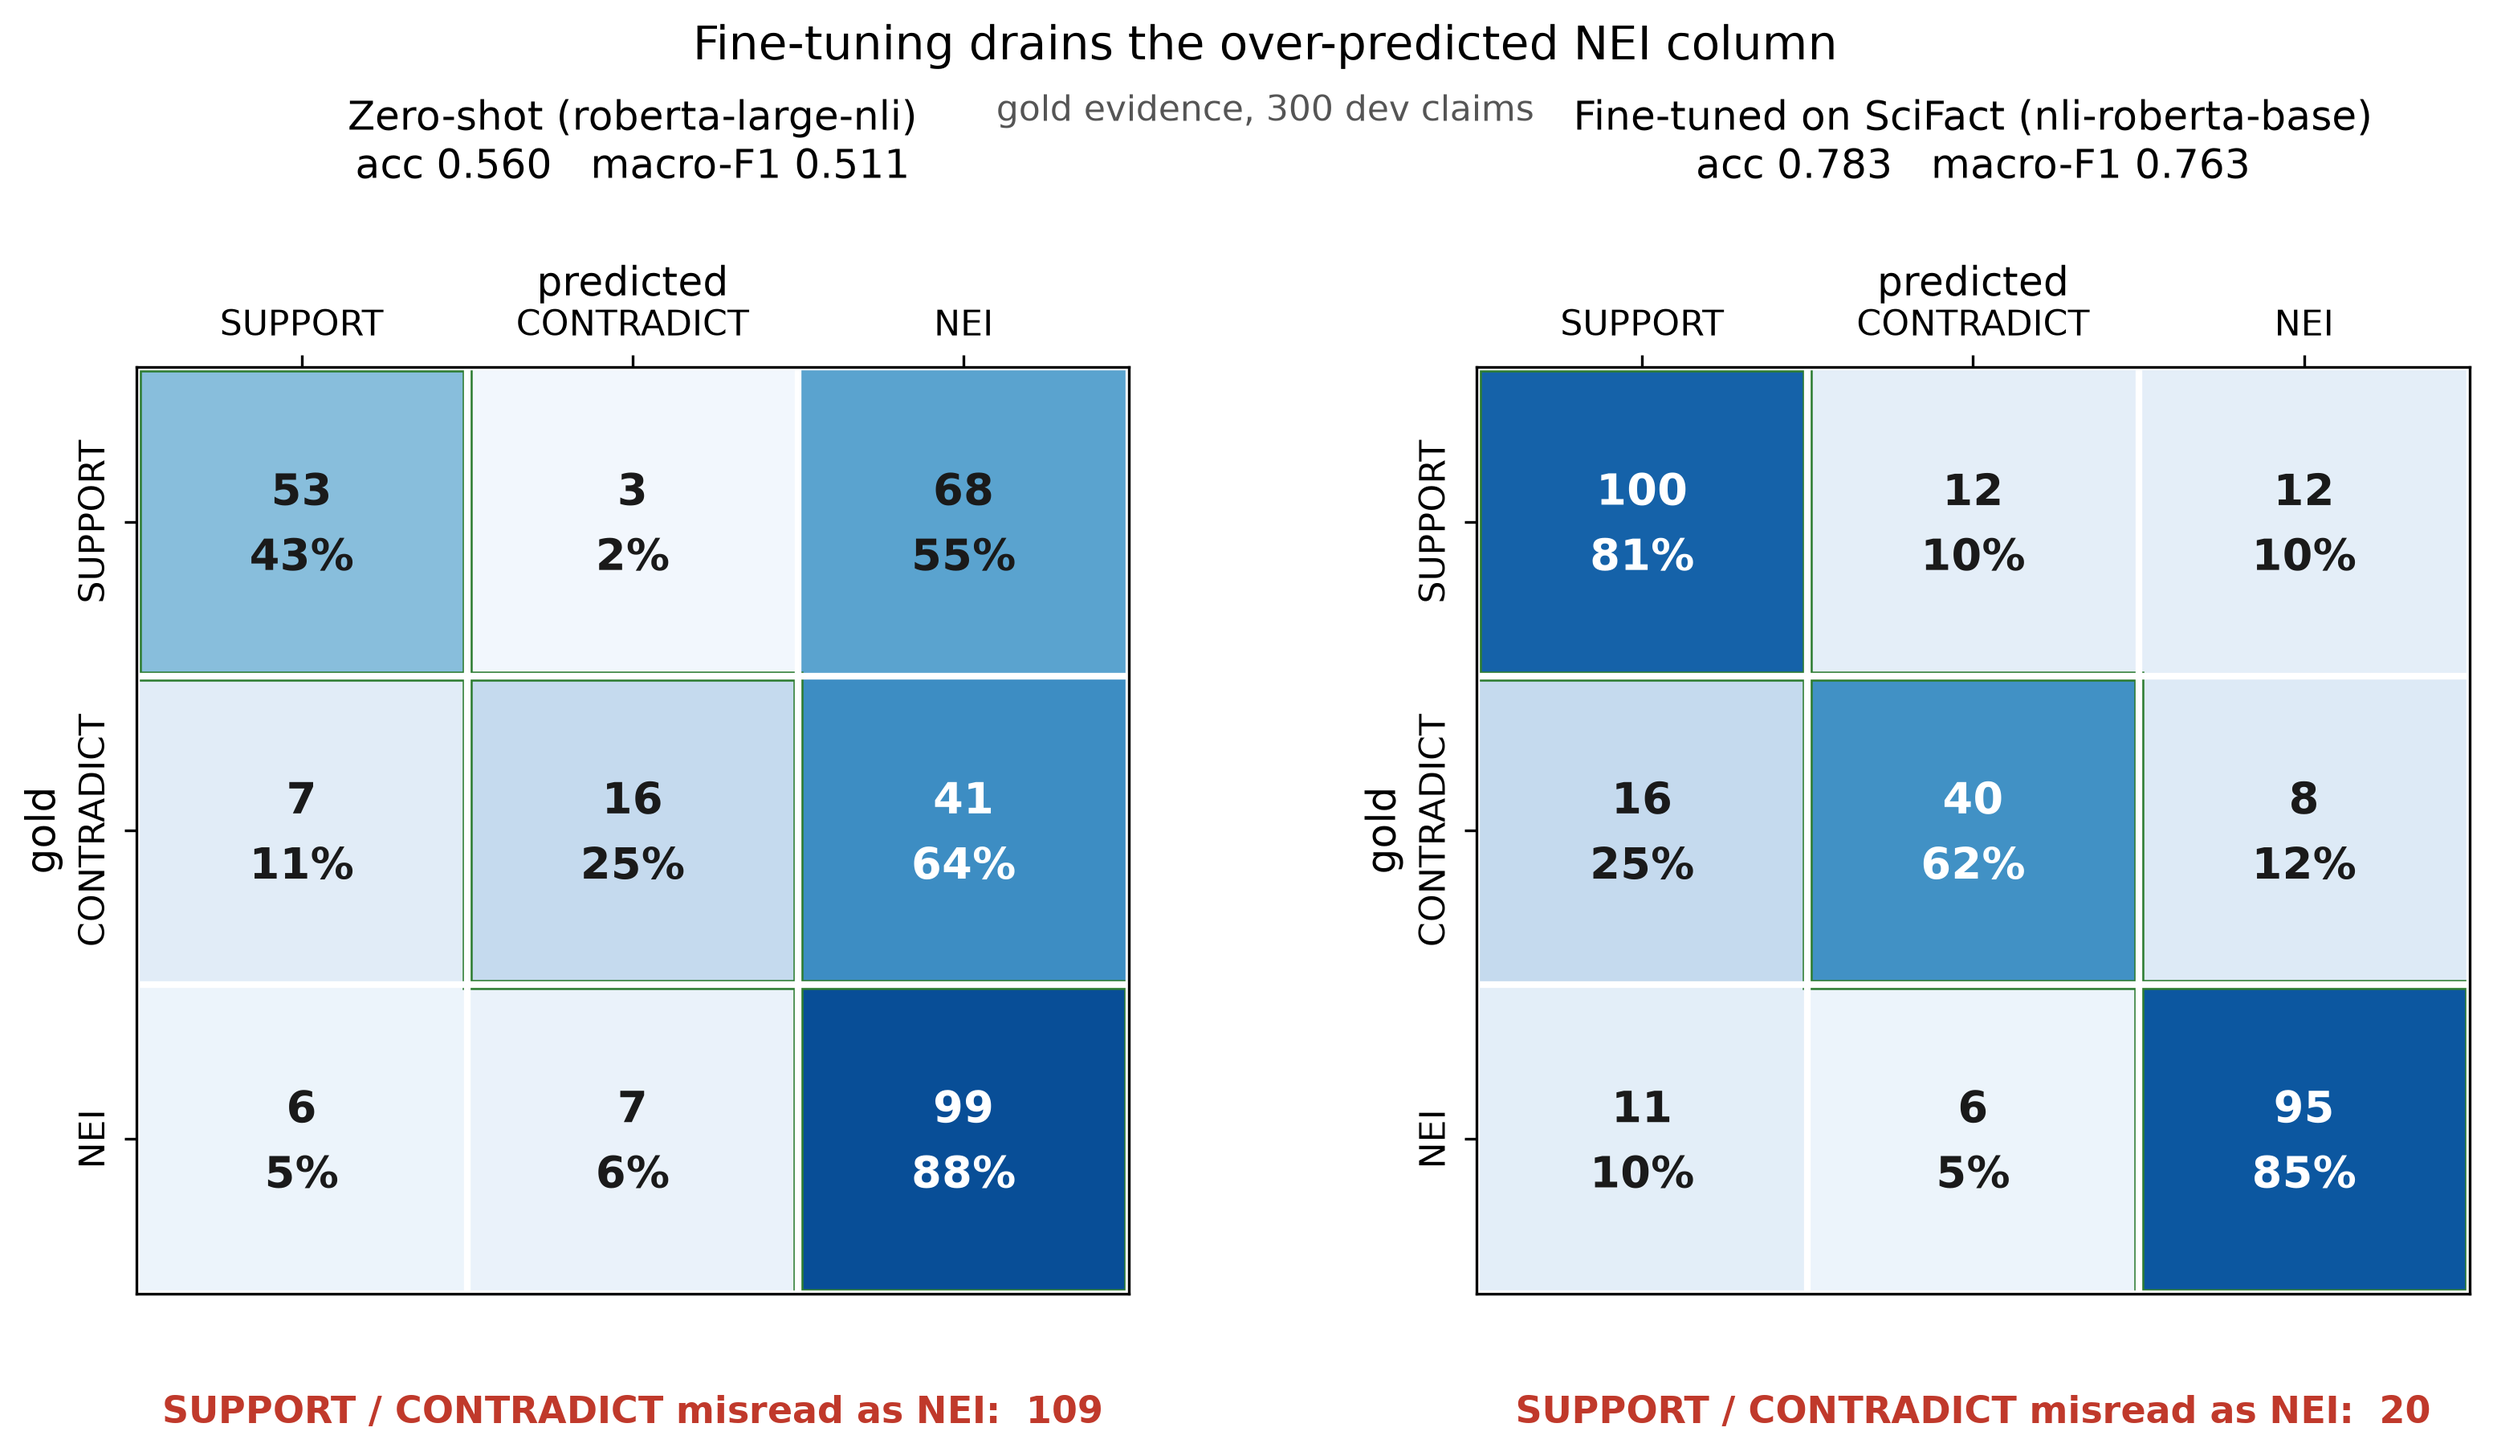
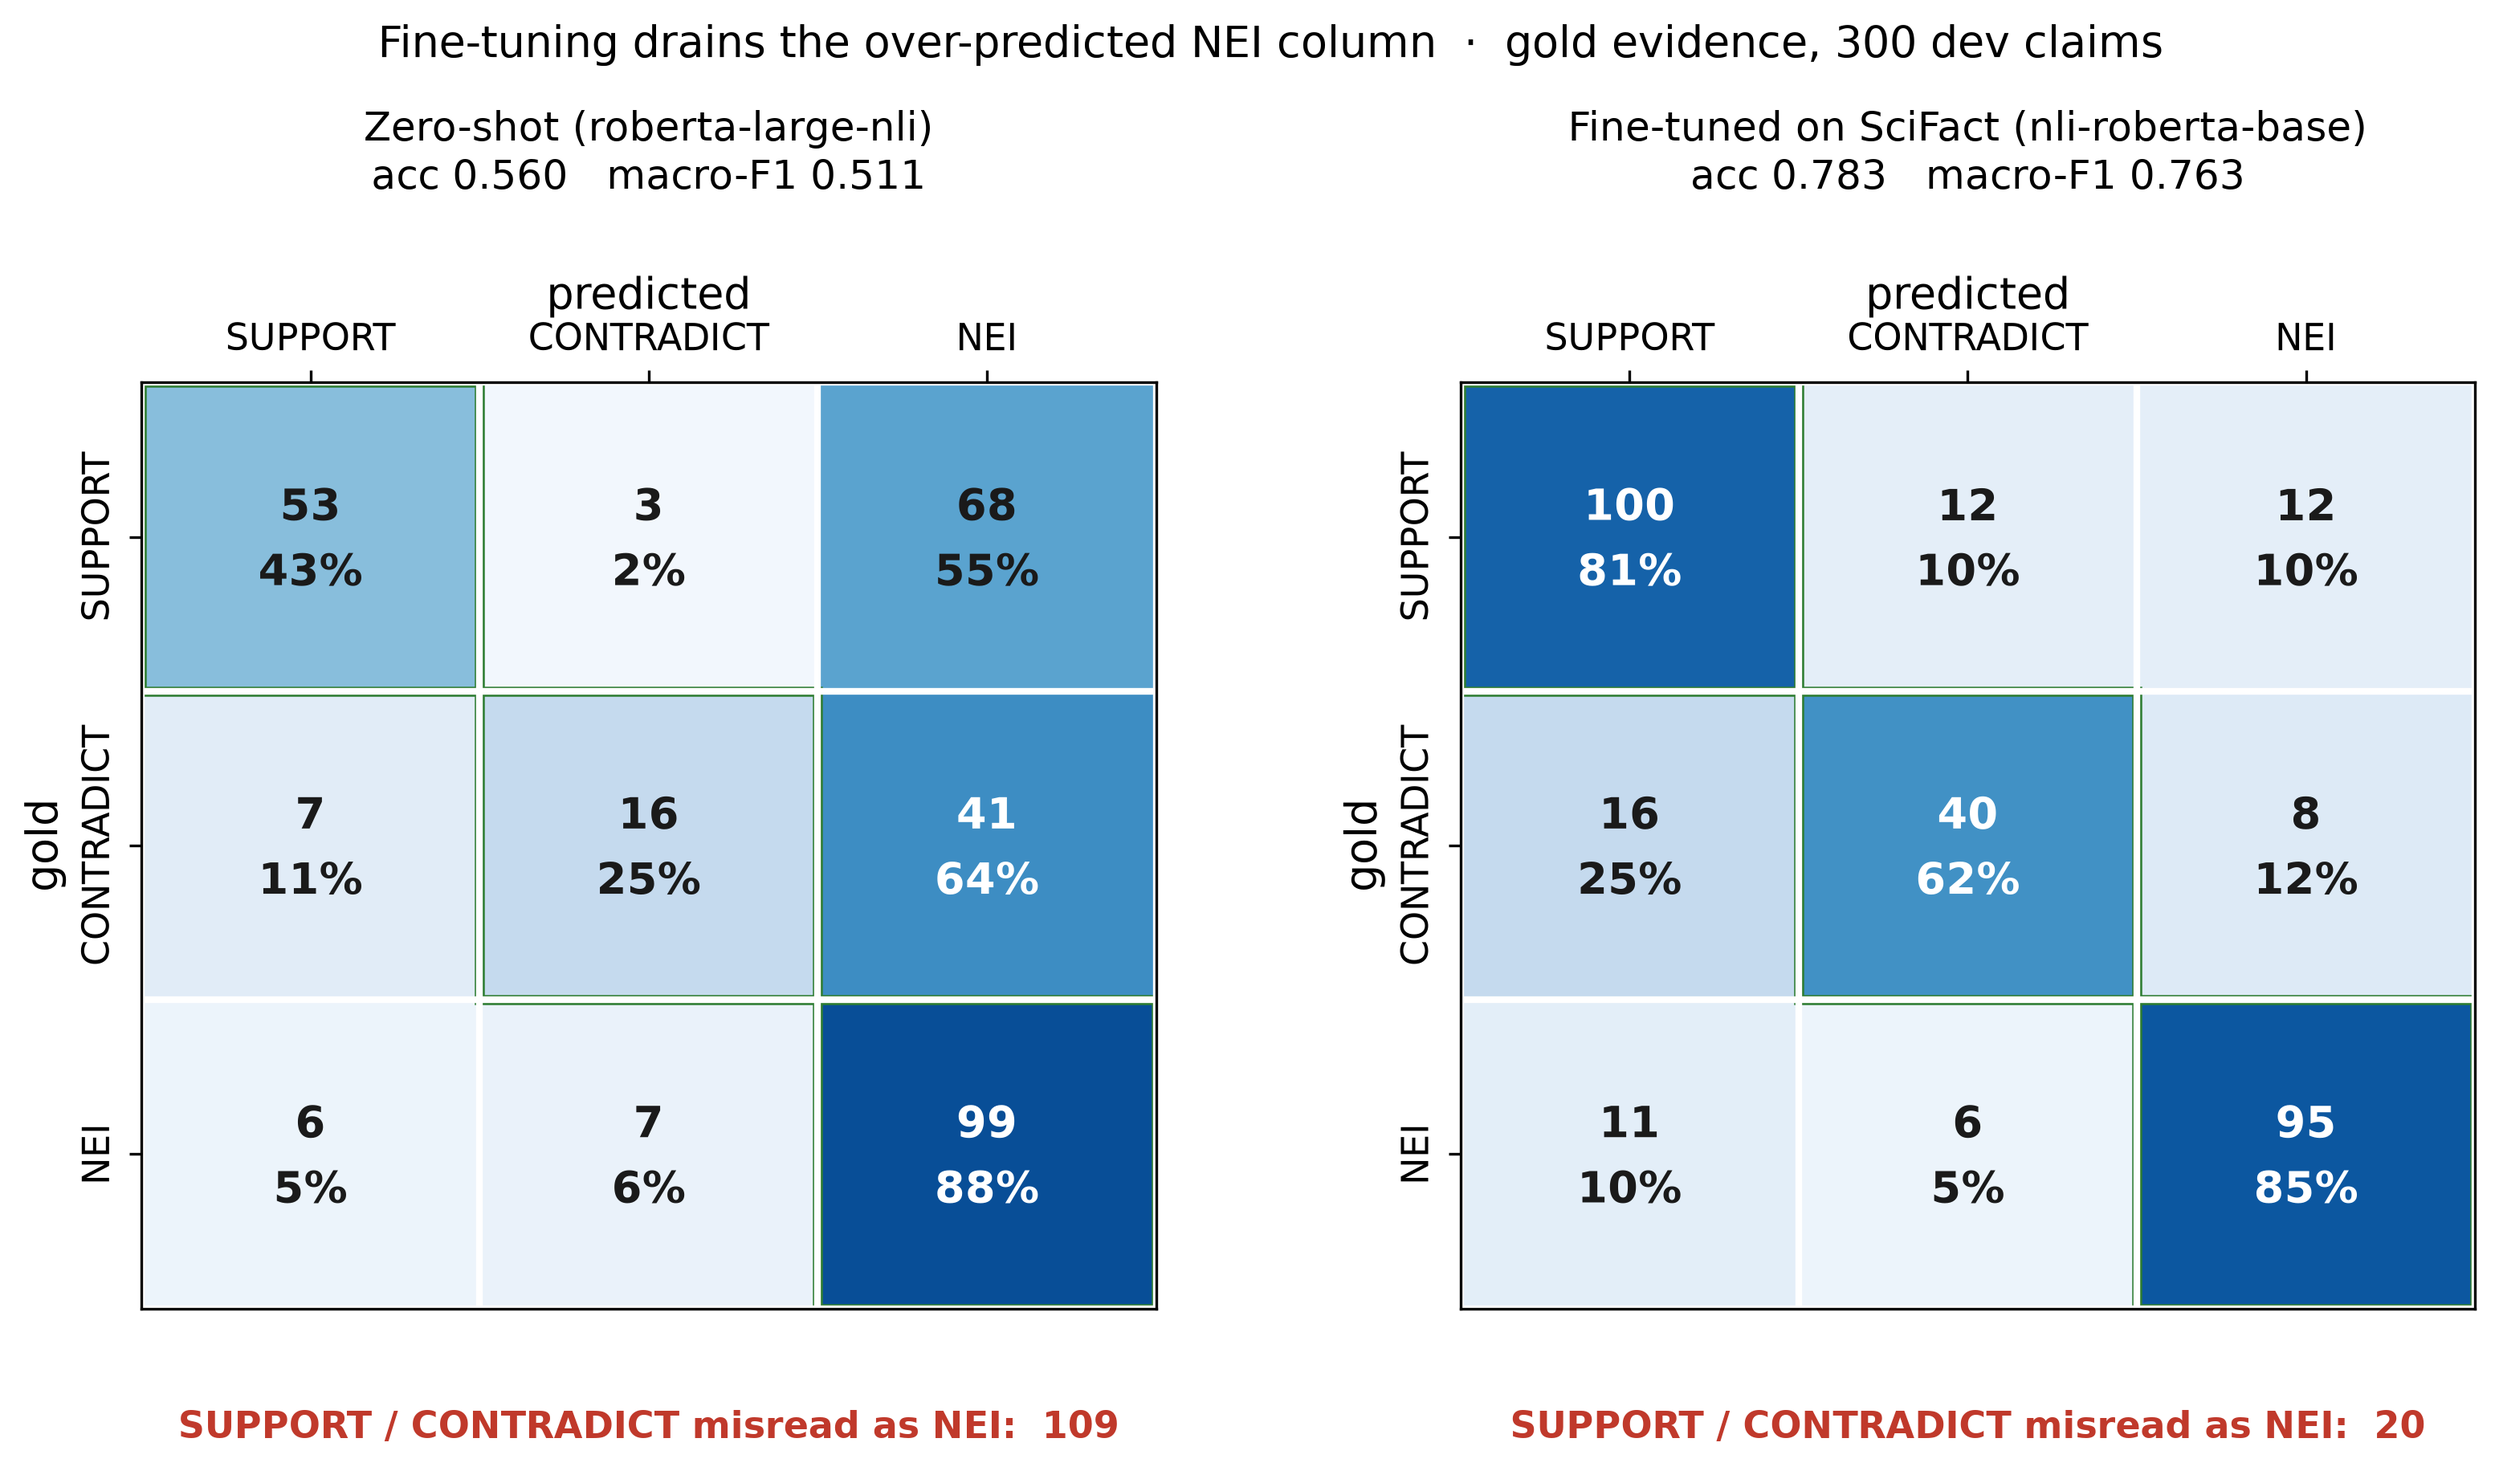
restyle NLI/Arctic plots to match the existing figures

diff --git a/make_plots.py b/make_plots.py
@@ -22,6 +22,7 @@ OUTPUT_DIR.mkdir(parents=True, exist_ok=True)
 
 COLOR_DEFAULT = "#4878A6"
 COLOR_HIGHLIGHT = "#2E7D32"
+COLOR_WARNING = "#C0392B"
 
 def plot_main_comparison():
     sorted_methods = sorted(RESULTS.items(), key=lambda x: x[1]["ndcg"], reverse=True)
@@ -210,8 +211,6 @@ def plot_reranking_effect():
         "BGE-FT":    {"without": 0.830, "with": 0.798},
     }
 
-    COLOR_WARNING = "#C0392B"  # negative BGE-FT slope
-
     fig, ax = plt.subplots(figsize=(11, 6.5))
     x_positions = [0, 1]
     x_labels = ["without\nReranker", "with mxbai\nReranker"]
@@ -272,7 +271,7 @@ def plot_nli_confusion_matrices():
     ])
 
     fig, axes = plt.subplots(1, 2, figsize=(12.5, 6.2))
-    fig.subplots_adjust(wspace=0.35, top=0.74, bottom=0.12)
+    fig.subplots_adjust(wspace=0.30, top=0.74, bottom=0.12)
     panels = [
         (axes[0], zero_shot,
          "Zero-shot (roberta-large-nli)\nacc 0.560   macro-F1 0.511"),
@@ -299,26 +298,24 @@ def plot_nli_confusion_matrices():
                                        edgecolor=COLOR_HIGHLIGHT, linewidth=3))
 
         wrong_to_nei = int(matrix[0, 2] + matrix[1, 2])
-        ax.set_xticks(range(3), labels, fontsize=10.5)
-        ax.set_yticks(range(3), labels, fontsize=10.5, rotation=90, va="center")
+        ax.set_xticks(range(3), labels, fontsize=11)
+        ax.set_yticks(range(3), labels, fontsize=11, rotation=90, va="center")
         ax.xaxis.set_ticks_position("top")
-        ax.set_xlabel("predicted", fontsize=12)
+        ax.set_xlabel("predicted", fontsize=13)
         ax.xaxis.set_label_position("top")
-        ax.set_ylabel("gold", fontsize=12)
+        ax.set_ylabel("gold", fontsize=13)
         ax.set_title(title, fontsize=12, pad=26)
         ax.text(0.5, -0.14,
                 f"SUPPORT / CONTRADICT misread as NEI:  {wrong_to_nei}",
                 transform=ax.transAxes, ha="center", fontsize=11,
-                color="#C0392B", fontweight="bold")
+                color=COLOR_WARNING, fontweight="bold")
         ax.set_xticks(np.arange(-0.5, 3), minor=True)
         ax.set_yticks(np.arange(-0.5, 3), minor=True)
         ax.grid(which="minor", color="white", linewidth=2)
         ax.tick_params(which="minor", length=0)
 
-    fig.suptitle("Fine-tuning drains the over-predicted NEI column",
-                 fontsize=14, y=0.97)
-    fig.text(0.5, 0.905, "gold evidence, 300 dev claims", ha="center",
-             fontsize=10.5, color="#555555")
+    fig.suptitle("Fine-tuning drains the over-predicted NEI column  ·  gold evidence, 300 dev claims",
+                 fontsize=13, y=0.98)
     out = OUTPUT_DIR / "05_nli_confusion_matrices.png"
     plt.savefig(out, dpi=300, bbox_inches="tight")
     plt.close()
@@ -332,51 +329,49 @@ def plot_nli_metrics_comparison():
     Nuance: the gold-minus-retrieved gap *widens* after fine-tuning. Once the
     classifier is strong, retrieval mistakes become the visible bottleneck.
     """
-    # (retrieved evidence, gold evidence)  -- results/eval_nli*.log
-    data = {
-        "Accuracy": {"Zero-shot": (0.543, 0.560), "Fine-tuned": (0.710, 0.783)},
-        "Macro-F1": {"Zero-shot": (0.489, 0.511), "Fine-tuned": (0.697, 0.763)},
-    }
+    # (label, retrieved evidence, gold evidence)  -- results/eval_nli*.log
+    rows = [
+        ("Accuracy\nzero-shot",  0.543, 0.560),
+        ("Accuracy\nfine-tuned", 0.710, 0.783),
+        ("Macro-F1\nzero-shot",  0.489, 0.511),
+        ("Macro-F1\nfine-tuned", 0.697, 0.763),
+    ]
+    labels    = [r[0] for r in rows]
+    retrieved = [r[1] for r in rows]
+    gold      = [r[2] for r in rows]
 
-    fig, axes = plt.subplots(1, 2, figsize=(13, 6), sharey=True)
-    bar_w = 0.34
+    x = np.arange(len(rows))
+    bar_w = 0.38
 
-    for ax, (metric, groups) in zip(axes, data.items()):
-        names = list(groups)
-        x = np.arange(len(names))
-        retrieved = [groups[n][0] for n in names]
-        gold = [groups[n][1] for n in names]
+    fig, ax = plt.subplots(figsize=(12, 6.75))
+    b1 = ax.bar(x - bar_w / 2, retrieved, bar_w, color=COLOR_DEFAULT,
+                edgecolor="white", linewidth=0.5, label="retrieved (BGE-FT top-1)")
+    b2 = ax.bar(x + bar_w / 2, gold, bar_w, color=COLOR_HIGHLIGHT,
+                edgecolor="white", linewidth=0.5, label="gold evidence")
 
-        b1 = ax.bar(x - bar_w / 2, retrieved, bar_w, color=COLOR_DEFAULT,
-                    hatch="///", edgecolor="white", label="retrieved (BGE-FT top-1)")
-        b2 = ax.bar(x + bar_w / 2, gold, bar_w, color=COLOR_HIGHLIGHT,
-                    edgecolor="white", label="gold evidence")
+    for bars in (b1, b2):
+        for bar in bars:
+            ax.text(bar.get_x() + bar.get_width() / 2, bar.get_height() + 0.012,
+                    f"{bar.get_height():.3f}", ha="center", fontsize=11)
 
-        for bars in (b1, b2):
-            for bar in bars:
-                ax.text(bar.get_x() + bar.get_width() / 2, bar.get_height() + 0.012,
-                        f"{bar.get_height():.3f}", ha="center", fontsize=10)
+    for xi, (_, r, g) in enumerate(rows):
+        top = max(r, g) + 0.07
+        ax.annotate("", xy=(xi + bar_w / 2, top), xytext=(xi - bar_w / 2, top),
+                    arrowprops=dict(arrowstyle="<->", color="gray", lw=1.2))
+        ax.text(xi, top + 0.02, f"Δ +{g - r:.3f}", ha="center", fontsize=10,
+                color="gray", fontweight="bold")
 
-        for xi, n in enumerate(names):
-            gap = groups[n][1] - groups[n][0]
-            top = max(groups[n]) + 0.075
-            ax.annotate("", xy=(xi + bar_w / 2, top), xytext=(xi - bar_w / 2, top),
-                        arrowprops=dict(arrowstyle="<->", color="gray", lw=1.3))
-            ax.text(xi, top + 0.018, f"Δ +{gap:.3f}", ha="center", fontsize=10,
-                    color="gray", fontweight="bold")
+    ax.set_xticks(x, labels, fontsize=11)
+    ax.set_ylabel("score on the 300 dev claims", fontsize=13)
+    ax.set_ylim(0, 0.95)
+    ax.set_title("NLI verdict: fine-tuning lifts every metric — and widens the retrieval gap",
+                 fontsize=14, pad=15)
+    ax.legend(loc="upper left", fontsize=11, frameon=False)
+    ax.grid(axis="y", linestyle="--", alpha=0.4)
+    ax.set_axisbelow(True)
+    for spine in ["top", "right"]:
+        ax.spines[spine].set_visible(False)
 
-        ax.set_xticks(x, names, fontsize=12)
-        ax.set_title(metric, fontsize=13, pad=12)
-        ax.set_ylim(0, 0.95)
-        ax.grid(axis="y", linestyle="--", alpha=0.4)
-        ax.set_axisbelow(True)
-        for spine in ["top", "right"]:
-            ax.spines[spine].set_visible(False)
-
-    axes[0].set_ylabel("score on the 300 dev claims", fontsize=12)
-    axes[1].legend(loc="upper left", fontsize=11, frameon=False)
-    fig.suptitle("NLI verdict: fine-tuning lifts every metric — and widens the retrieval gap",
-                 fontsize=14, y=1.00)
     plt.tight_layout()
     out = OUTPUT_DIR / "06_nli_metrics_comparison.png"
     plt.savefig(out, dpi=300, bbox_inches="tight")
@@ -407,9 +402,9 @@ def plot_arctic_side_experiment():
     fig, ax = plt.subplots(figsize=(11, 6.5))
 
     b1 = ax.bar(x - bar_w / 2, pretrained, bar_w, color=COLOR_DEFAULT,
-                hatch="///", edgecolor="white", label="pretrained")
+                edgecolor="white", linewidth=0.5, label="pretrained")
     b2 = ax.bar(x + bar_w / 2, finetuned, bar_w, color=COLOR_HIGHLIGHT,
-                edgecolor="white", label="fine-tuned on SciFact")
+                edgecolor="white", linewidth=0.5, label="fine-tuned on SciFact")
 
     for bars in (b1, b2):
         for bar in bars:
@@ -424,15 +419,15 @@ def plot_arctic_side_experiment():
             "carried forward\n(see dashed line)", ha="center", va="center",
             fontsize=10, color="white", fontweight="bold")
 
-    ax.axhline(validated_bge_ft_devtest, color="#C0392B", linestyle="--", linewidth=1.8)
+    ax.axhline(validated_bge_ft_devtest, color=COLOR_WARNING, linestyle="--", linewidth=1.8)
     ax.text(len(models) - 0.5, validated_bge_ft_devtest + 0.008,
             f"BGE-FT on held-out dev-test: {validated_bge_ft_devtest:.3f}  (validated)",
-            ha="right", fontsize=10, color="#C0392B", fontweight="bold")
+            ha="right", fontsize=10, color=COLOR_WARNING, fontweight="bold")
 
     ax.set_xticks(x, models, fontsize=12)
-    ax.set_ylabel("nDCG@10 on dev_monitor (150 claims)", fontsize=12)
+    ax.set_ylabel("nDCG@10 on dev_monitor (150 claims)", fontsize=13)
     ax.set_ylim(0, 0.95)
-    ax.set_title("Arctic-embed: a promising side experiment we didn't validate",
+    ax.set_title("Arctic-embed: a promising side experiment I didn't validate",
                  fontsize=14, pad=15)
     ax.legend(loc="upper left", fontsize=11, frameon=False)
     ax.grid(axis="y", linestyle="--", alpha=0.4)
